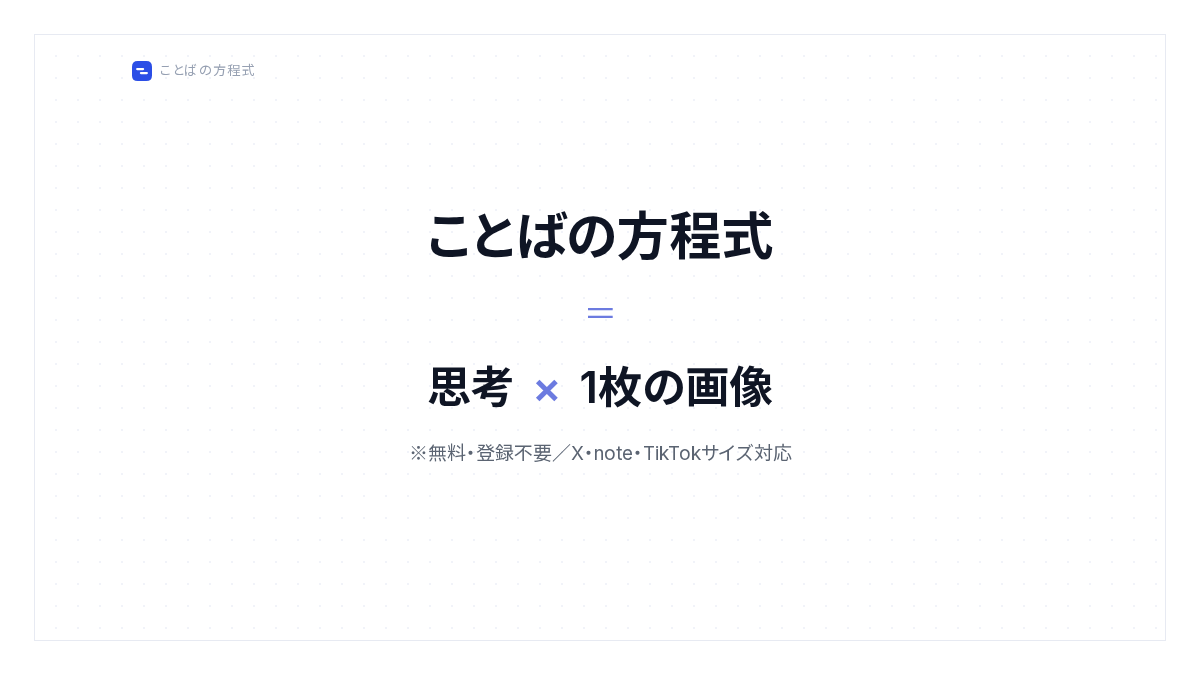
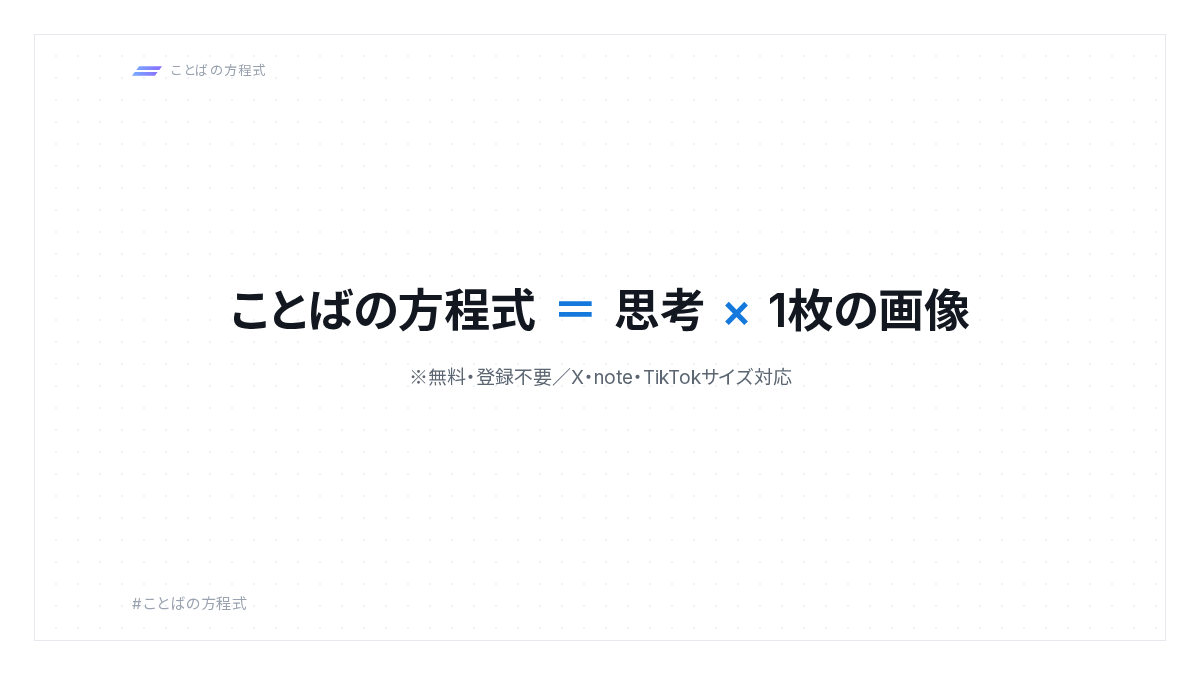
ロゴを新しいマークに差し替え、入力欄の説明を一般的な表現に
- 斜めの2本バー（青→紫グラデーション）のマークをヘッダー・フッター・favicon・出力画像・OGPで共有
- 背景の光と見出しのハイライトを同じグラデーションに寄せる
- プレースホルダーと補足文から具体例に寄った文言を外す

diff --git a/src/lib/logo.ts b/src/lib/logo.ts
@@ -1,59 +1,63 @@
 /**
- * The brand mark: two offset bars inside a rounded square. The bars read as an
- * equals sign that has been nudged out of alignment — an equation made of words
- * rather than numbers. Geometry is defined on a 32×32 grid and shared by the
- * SVG component and the canvas renderer so both stay identical.
+ * The brand mark: two slanted bars that read as an italic equals sign — an
+ * equation written with words rather than numbers. Geometry is defined on a
+ * 37×12 grid and shared by the SVG component and the canvas renderer so both
+ * stay identical.
  */
-export const MARK_GRID = 32;
+export const MARK_WIDTH = 37;
+export const MARK_HEIGHT = 12;
+export const MARK_ASPECT = MARK_WIDTH / MARK_HEIGHT;
 
-const MARK_RADIUS = 9;
-const BAR_HEIGHT = 3.6;
-const BAR_WIDTH = 13;
-const TOP_BAR = { x: 6.5, y: 11 };
-const BOTTOM_BAR = { x: 12.5, y: 17.4 };
+const BAR_HEIGHT = 4.7;
+const BAR_WIDTH = 28.2;
+const BAR_SKEW = 3.4;
+const TOP_BAR = { x: 8.8, y: 0 };
+const BOTTOM_BAR = { x: 3.4, y: 7.3 };
 
-export const MARK_PATHS = {
-  radius: MARK_RADIUS,
-  barHeight: BAR_HEIGHT,
-  barWidth: BAR_WIDTH,
-  bars: [TOP_BAR, BOTTOM_BAR],
-} as const;
+export const BRAND_FROM = "#74B2FF";
+export const BRAND_TO = "#8C65FF";
+export const BRAND_INK = "#6D6BF2";
 
-function roundedRect(
+/** Corner points of one bar, clockwise from its top-left. */
+function barPoints(bar: { x: number; y: number }) {
+  return [
+    [bar.x, bar.y],
+    [bar.x + BAR_WIDTH, bar.y],
+    [bar.x + BAR_WIDTH - BAR_SKEW, bar.y + BAR_HEIGHT],
+    [bar.x - BAR_SKEW, bar.y + BAR_HEIGHT],
+  ] as const;
+}
+
+export const MARK_BARS = [TOP_BAR, BOTTOM_BAR].map((bar) =>
+  barPoints(bar)
+    .map((point) => point.join(","))
+    .join(" "),
+);
+
+function markGradient(
   ctx: CanvasRenderingContext2D,
   x: number,
   y: number,
   width: number,
   height: number,
-  radius: number,
-) {
-  const r = Math.min(radius, width / 2, height / 2);
-  ctx.beginPath();
-  ctx.moveTo(x + r, y);
-  ctx.lineTo(x + width - r, y);
-  ctx.quadraticCurveTo(x + width, y, x + width, y + r);
-  ctx.lineTo(x + width, y + height - r);
-  ctx.quadraticCurveTo(x + width, y + height, x + width - r, y + height);
-  ctx.lineTo(x + r, y + height);
-  ctx.quadraticCurveTo(x, y + height, x, y + height - r);
-  ctx.lineTo(x, y + r);
-  ctx.quadraticCurveTo(x, y, x + r, y);
-  ctx.closePath();
-  ctx.fill();
+  from: string,
+  to: string,
+): CanvasGradient {
+  const gradient = ctx.createLinearGradient(x, y, x + width, y + height);
+  gradient.addColorStop(0, from);
+  gradient.addColorStop(1, to);
+  return gradient;
 }
 
-/** Gold lockup printed for supporters, in place of the flat accent fill. */
+/** Gold lockup printed for supporters, in place of the brand gradient. */
 export function supporterGradient(
   ctx: CanvasRenderingContext2D,
   x: number,
   y: number,
-  size: number,
+  width: number,
+  height: number,
 ): CanvasGradient {
-  const gradient = ctx.createLinearGradient(x, y, x + size, y + size);
-  gradient.addColorStop(0, "#E9CD7E");
-  gradient.addColorStop(0.45, "#C9A227");
-  gradient.addColorStop(1, "#8C6A12");
-  return gradient;
+  return markGradient(ctx, x, y, width, height, "#E9CD7E", "#8C6A12");
 }
 
 export const SUPPORTER_INK = "#A98220";
@@ -63,22 +67,22 @@ export function drawLogoMark(
   ctx: CanvasRenderingContext2D,
   x: number,
   y: number,
-  size: number,
-  accent: string | CanvasGradient,
-  onAccent: string,
+  width: number,
+  fill?: string | CanvasGradient,
 ) {
-  const k = size / MARK_GRID;
-  ctx.fillStyle = accent;
-  roundedRect(ctx, x, y, size, size, MARK_RADIUS * k);
-  ctx.fillStyle = onAccent;
-  for (const bar of MARK_PATHS.bars) {
-    roundedRect(
-      ctx,
-      x + bar.x * k,
-      y + bar.y * k,
-      BAR_WIDTH * k,
-      BAR_HEIGHT * k,
-      (BAR_HEIGHT / 2) * k,
-    );
+  const k = width / MARK_WIDTH;
+  ctx.fillStyle =
+    fill ??
+    markGradient(ctx, x, y, width, width / MARK_ASPECT, BRAND_FROM, BRAND_TO);
+  for (const bar of [TOP_BAR, BOTTOM_BAR]) {
+    ctx.beginPath();
+    barPoints(bar).forEach(([px, py], index) => {
+      const cx = x + px * k;
+      const cy = y + py * k;
+      if (index === 0) ctx.moveTo(cx, cy);
+      else ctx.lineTo(cx, cy);
+    });
+    ctx.closePath();
+    ctx.fill();
   }
 }

diff --git a/src/components/Editor.tsx b/src/components/Editor.tsx
@@ -379,7 +379,7 @@ export default function Editor() {
           <Field
             value={config.resultText}
             onChange={(value) => update({ resultText: value })}
-            placeholder="例：体感の暑さ"
+            placeholder="例：伝えたい結論"
             limit={LIMITS.resultText}
           />
         </Section>
@@ -420,7 +420,7 @@ export default function Editor() {
             )}
           </div>
           <p className="mt-2 text-[11px] leading-snug text-faint">
-            「暑さ＝気温×湿度」のような式も、「思い出＞お金」のような比較も作れます。
+            「A ＝ B × C」のような等式も、「A ＞ B」のような比較も作れます。
           </p>
         </Section>
 
@@ -474,7 +474,7 @@ export default function Editor() {
                   <input
                     type="text"
                     value={element.text}
-                    placeholder={index === 0 ? "例：気温" : "例：湿度"}
+                    placeholder={`例：要素${index + 1}`}
                     maxLength={LIMITS.element}
                     onChange={(e) =>
                       updateElement(index, { text: e.target.value })
@@ -513,7 +513,7 @@ export default function Editor() {
           <Field
             value={config.subNote}
             onChange={(value) => update({ subNote: value })}
-            placeholder={"例：※同じ気温でも、湿度が高いほどつらい。\n長い文章も自動で折り返します。"}
+            placeholder={"例：※式の意味や注釈を一言で。\n長い文章も自動で折り返します。"}
             limit={LIMITS.subNote}
             multiline
           />
@@ -523,7 +523,7 @@ export default function Editor() {
           <Field
             value={config.hashtags}
             onChange={(value) => update({ hashtags: value })}
-            placeholder="例：#ことばの方程式 #思考の整理"
+            placeholder="例：#ことばの方程式 #タグ"
             limit={LIMITS.hashtags}
           />
           <p className="mt-1 text-[11px] leading-snug text-faint">

diff --git a/src/components/Logo.tsx b/src/components/Logo.tsx
@@ -1,36 +1,36 @@
-import { MARK_GRID, MARK_PATHS } from "@/lib/logo";
+import { useId } from "react";
+import {
+  BRAND_FROM,
+  BRAND_TO,
+  MARK_BARS,
+  MARK_HEIGHT,
+  MARK_WIDTH,
+} from "@/lib/logo";
 
 export function LogoMark({
-  size = 32,
+  width = 37,
   className = "",
 }: {
-  size?: number;
+  width?: number;
   className?: string;
 }) {
+  const gradientId = useId();
   return (
     <svg
-      width={size}
-      height={size}
-      viewBox={`0 0 ${MARK_GRID} ${MARK_GRID}`}
+      width={width}
+      height={(width * MARK_HEIGHT) / MARK_WIDTH}
+      viewBox={`0 0 ${MARK_WIDTH} ${MARK_HEIGHT}`}
       className={className}
       aria-hidden
     >
-      <rect
-        width={MARK_GRID}
-        height={MARK_GRID}
-        rx={MARK_PATHS.radius}
-        fill="currentColor"
-      />
-      {MARK_PATHS.bars.map((bar) => (
-        <rect
-          key={bar.y}
-          x={bar.x}
-          y={bar.y}
-          width={MARK_PATHS.barWidth}
-          height={MARK_PATHS.barHeight}
-          rx={MARK_PATHS.barHeight / 2}
-          className="fill-white"
-        />
+      <defs>
+        <linearGradient id={gradientId} x1="0" y1="0" x2="1" y2="1">
+          <stop offset="0" stopColor={BRAND_FROM} />
+          <stop offset="1" stopColor={BRAND_TO} />
+        </linearGradient>
+      </defs>
+      {MARK_BARS.map((points) => (
+        <polygon key={points} points={points} fill={`url(#${gradientId})`} />
       ))}
     </svg>
   );
@@ -39,7 +39,7 @@ export function LogoMark({
 export function Logo({ className = "" }: { className?: string }) {
   return (
     <span className={`flex items-center gap-2.5 ${className}`}>
-      <LogoMark size={30} className="text-accent" />
+      <LogoMark width={30} />
       <span className="text-[15px] font-semibold tracking-tight text-fg">
         ことばの方程式
       </span>

diff --git a/src/lib/render.ts b/src/lib/render.ts
@@ -7,7 +7,12 @@ import {
   type FormulaElement,
 } from "./types";
 import { getTheme } from "./themes";
-import { SUPPORTER_INK, drawLogoMark, supporterGradient } from "./logo";
+import {
+  MARK_ASPECT,
+  SUPPORTER_INK,
+  drawLogoMark,
+  supporterGradient,
+} from "./logo";
 
 export const SYSTEM_STACK =
   '-apple-system, "Hiragino Sans", "Yu Gothic", "Noto Sans JP", sans-serif';
@@ -420,21 +425,23 @@ export function drawFormula(
 
   ctx.textBaseline = "middle";
   if (config.showWatermark) {
-    const markSize = 20 * base;
-    const markY = headerY - markSize / 2;
+    const markWidth = 30 * base;
+    const markHeight = markWidth / MARK_ASPECT;
+    const markY = headerY - markHeight / 2;
     const premium = config.premiumLogo;
     drawLogoMark(
       ctx,
       marginX,
       markY,
-      markSize,
-      premium ? supporterGradient(ctx, marginX, markY, markSize) : theme.accent,
-      theme.onAccent,
+      markWidth,
+      premium
+        ? supporterGradient(ctx, marginX, markY, markWidth, markHeight)
+        : undefined,
     );
     ctx.textAlign = "left";
     ctx.fillStyle = premium ? SUPPORTER_INK : theme.brand;
     ctx.font = font(normalWeight, 13 * base, fontStack);
-    const wordX = marginX + markSize + 8 * base;
+    const wordX = marginX + markWidth + 9 * base;
     fillTracked(ctx, WORDMARK, wordX, headerY, 1.2 * base);
     if (premium) {
       const wordWidth = trackedWidth(ctx, WORDMARK, 1.2 * base);

diff --git a/src/lib/themes.ts b/src/lib/themes.ts
@@ -5,10 +5,8 @@ export type Theme = {
   frame: string;
   /** Wordmark text next to the logo mark. */
   brand: string;
-  /** Logo mark fill and any brand-colored detail. */
+  /** Brand-colored detail such as the relation glyph. */
   accent: string;
-  /** Glyph drawn inside the logo mark. */
-  onAccent: string;
   /** Dot grid printed behind the composition. */
   grid: string;
   title: string;
@@ -29,7 +27,6 @@ export const THEMES: Theme[] = [
     frame: "#E5E9EE",
     brand: "#98A2AE",
     accent: "#0B6BCB",
-    onAccent: "#FFFFFF",
     grid: "#ECEFF4",
     title: "#131820",
     element: "#131820",
@@ -46,7 +43,6 @@ export const THEMES: Theme[] = [
     frame: "#DFE4EB",
     brand: "#8C94A0",
     accent: "#0B6BCB",
-    onAccent: "#FFFFFF",
     grid: "#E6EAF0",
     title: "#151B23",
     element: "#151B23",
@@ -63,7 +59,6 @@ export const THEMES: Theme[] = [
     frame: "#2A3242",
     brand: "#7E8896",
     accent: "#4B9BFF",
-    onAccent: "#0C1220",
     grid: "#1A2130",
     title: "#F2F4F8",
     element: "#F2F4F8",

diff --git a/src/app/layout.tsx b/src/app/layout.tsx
@@ -58,7 +58,7 @@ export default function RootLayout({ children }: { children: React.ReactNode }) 
         <footer className="mt-14 border-t border-line bg-panel/80 py-7 backdrop-blur">
           <div className="mx-auto flex max-w-[1400px] flex-wrap items-center gap-x-5 gap-y-2 px-4 text-[11px] text-faint">
             <span className="flex items-center gap-2 text-[11px] font-medium text-muted">
-              <LogoMark size={18} className="text-accent" />
+              <LogoMark width={26} />
               ことばの方程式
             </span>
             <Link href="/legal/terms" className="transition hover:text-fg">

diff --git a/src/app/globals.css b/src/app/globals.css
@@ -34,8 +34,8 @@ body::after {
   inset: 0;
   z-index: -1;
   background:
-    radial-gradient(60rem 28rem at 12% -8%, rgba(11, 107, 203, 0.08), transparent 60%),
-    radial-gradient(48rem 26rem at 92% 2%, rgba(11, 107, 203, 0.05), transparent 60%),
+    radial-gradient(60rem 28rem at 12% -8%, rgba(116, 178, 255, 0.16), transparent 60%),
+    radial-gradient(48rem 26rem at 92% 2%, rgba(140, 101, 255, 0.1), transparent 60%),
     linear-gradient(180deg, rgba(255, 255, 255, 0.85) 0%, rgba(241, 244, 248, 0) 42%);
   pointer-events: none;
 }

diff --git a/src/app/page.tsx b/src/app/page.tsx
@@ -79,7 +79,7 @@ export default function Home() {
             <span className="relative whitespace-nowrap">
               方程式
               <span
-                className="absolute inset-x-0 bottom-0.5 -z-10 h-2.5 rounded-sm bg-accent/15"
+                className="absolute inset-x-0 bottom-0.5 -z-10 h-2.5 rounded-sm bg-gradient-to-r from-[#74B2FF]/30 to-[#8C65FF]/30"
                 aria-hidden
               />
             </span>
